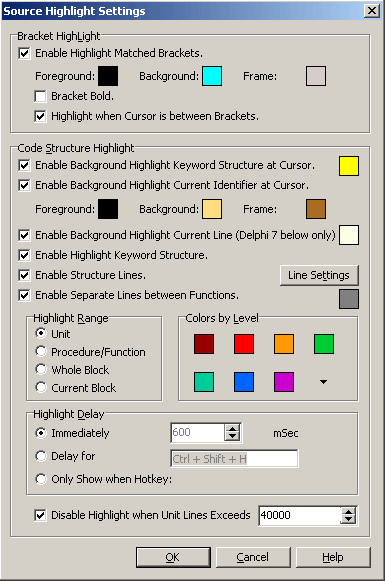
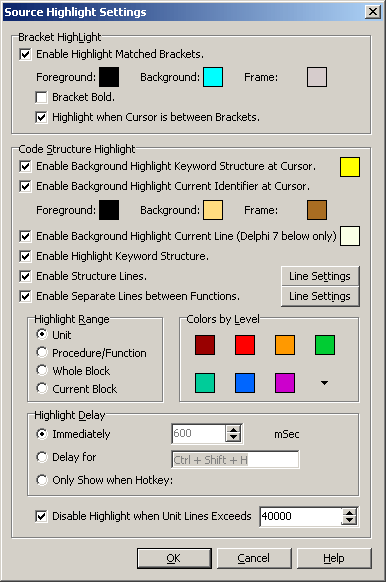
* [Source Highlight] Update Help for Separate Line Form.

diff --git a/cnwizards/Help/CnWizards_ENU/ideenhance/srchighlight.htm b/cnwizards/Help/CnWizards_ENU/ideenhance/srchighlight.htm
@@ -100,6 +100,18 @@ Brackets ( ), [ ], { } are supported. But { } only valid in C/C++. Code Structur
   </li>
 </ul>
   <li>
+<p class="text"><b>Line Settings</b>: Settings of Drawing Separate Lines. The dialog is shown as below:</p>
+<p align="center" class="text"><img src="srchighlightseplineconf.png"></p>
+  </li>
+  <ul>
+  <li>
+<p class="text"><b>Line Type</b>: Line Type, default small dot.</p>
+  </li>
+  <li>
+<p class="text"><b>Color</b>: Line Color, default gray.</p>
+  </li>
+  </ul>
+  <li>
 <p class="text"><b>Highlight Range</b>: This option specifies the highlight range in editor, including Unit, Procedure/Function, Whole Block, Current Block.</p>
   <ul>
   <li>
